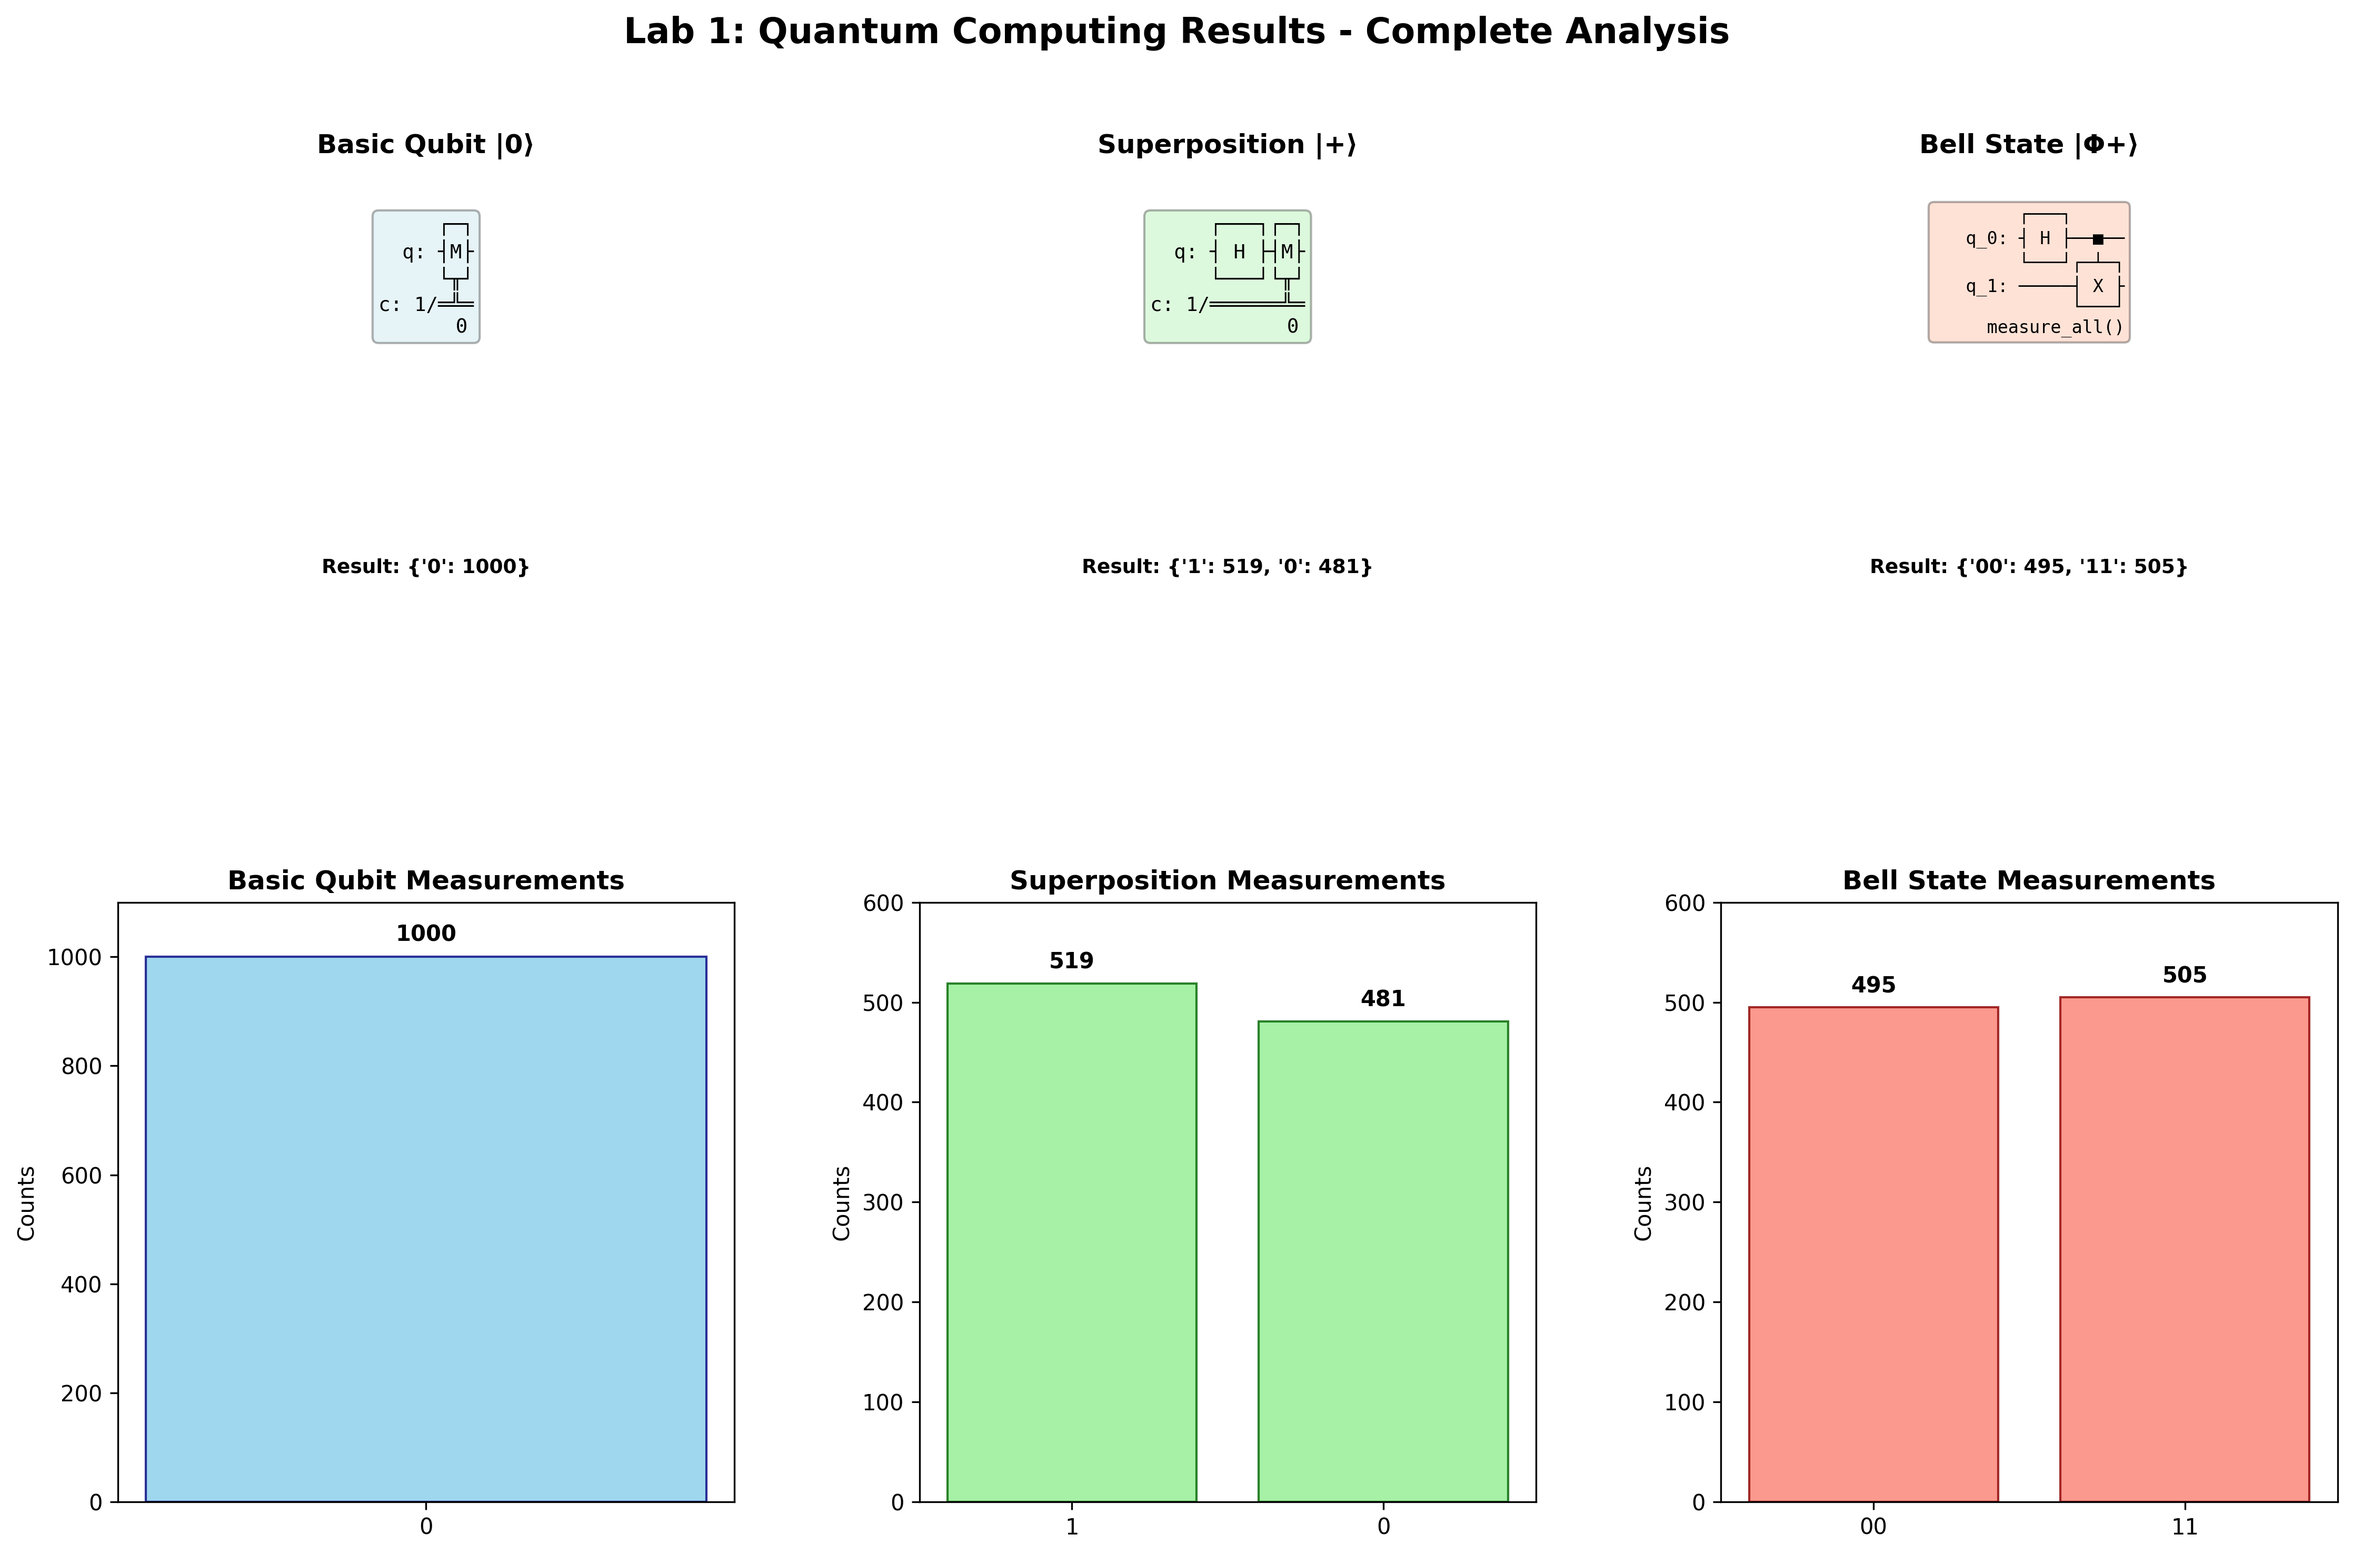
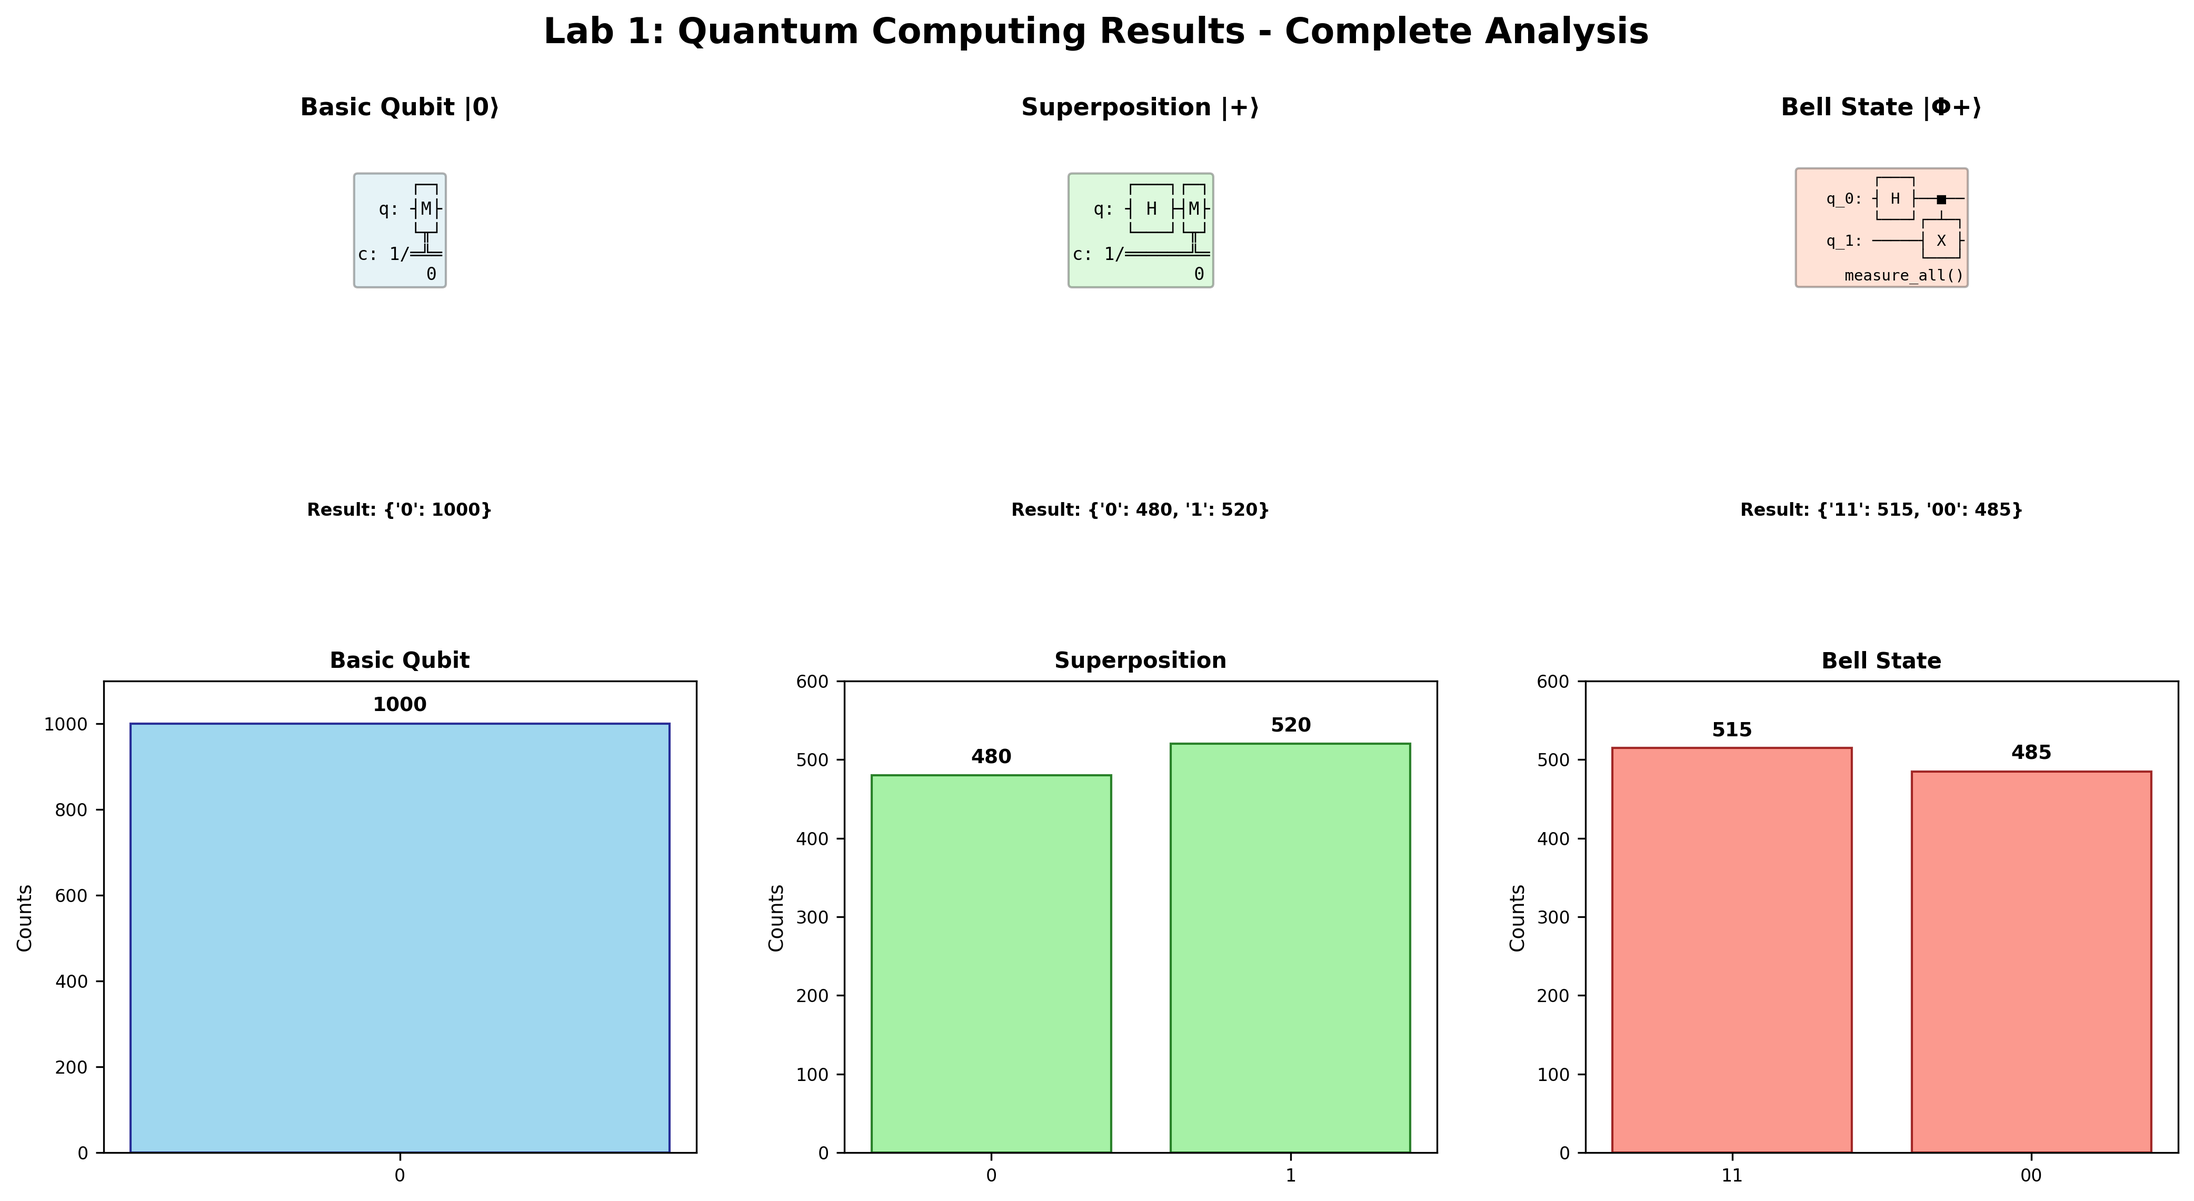
lab1

diff --git a/lab_1_final.py b/lab_1_final.py
@@ -85,84 +85,87 @@ def main():
     fig, ((ax1, ax2, ax3), (ax4, ax5, ax6)) = plt.subplots(2, 3, figsize=(14, 8))
     fig.suptitle('Lab 1: Quantum Computing Results - Complete Analysis', fontsize=16, fontweight='bold', y=0.98)
     
-    # Row 1: Circuit Diagrams with proper spacing
+    # Row 1: Circuit Diagrams with tighter spacing
     # Circuit 1
-    ax1.text(0.5, 0.85, 'Basic Qubit |0⟩', ha='center', fontsize=12, fontweight='bold', transform=ax1.transAxes)
+    ax1.text(0.5, 0.95, 'Basic Qubit |0⟩', ha='center', fontsize=11, fontweight='bold', transform=ax1.transAxes)
     circuit1_text = """     ┌─┐
   q: ┤M├
      └╥┘
 c: 1/═╩═
       0"""
-    ax1.text(0.5, 0.55, circuit1_text, ha='center', fontsize=9, fontfamily='monospace', 
-             transform=ax1.transAxes, bbox=dict(boxstyle="round,pad=0.3", facecolor="lightblue", alpha=0.3))
-    ax1.text(0.5, 0.15, f'Result: {counts1}', ha='center', fontsize=9, fontweight='bold', transform=ax1.transAxes)
+    ax1.text(0.5, 0.6, circuit1_text, ha='center', fontsize=8, fontfamily='monospace', 
+             transform=ax1.transAxes, bbox=dict(boxstyle="round,pad=0.2", facecolor="lightblue", alpha=0.3))
+    ax1.text(0.5, 0.1, f'Result: {counts1}', ha='center', fontsize=8, fontweight='bold', transform=ax1.transAxes)
     ax1.set_xlim(0, 1)
     ax1.set_ylim(0, 1)
     ax1.axis('off')
     
     # Circuit 2
-    ax2.text(0.5, 0.85, 'Superposition |+⟩', ha='center', fontsize=12, fontweight='bold', transform=ax2.transAxes)
+    ax2.text(0.5, 0.95, 'Superposition |+⟩', ha='center', fontsize=11, fontweight='bold', transform=ax2.transAxes)
     circuit2_text = """     ┌───┐┌─┐
   q: ┤ H ├┤M├
      └───┘└╥┘
 c: 1/══════╩═
            0"""
-    ax2.text(0.5, 0.55, circuit2_text, ha='center', fontsize=9, fontfamily='monospace', 
-             transform=ax2.transAxes, bbox=dict(boxstyle="round,pad=0.3", facecolor="lightgreen", alpha=0.3))
-    ax2.text(0.5, 0.15, f'Result: {counts2}', ha='center', fontsize=9, fontweight='bold', transform=ax2.transAxes)
+    ax2.text(0.5, 0.6, circuit2_text, ha='center', fontsize=8, fontfamily='monospace', 
+             transform=ax2.transAxes, bbox=dict(boxstyle="round,pad=0.2", facecolor="lightgreen", alpha=0.3))
+    ax2.text(0.5, 0.1, f'Result: {counts2}', ha='center', fontsize=8, fontweight='bold', transform=ax2.transAxes)
     ax2.set_xlim(0, 1)
     ax2.set_ylim(0, 1)
     ax2.axis('off')
     
     # Circuit 3
-    ax3.text(0.5, 0.85, 'Bell State |Φ+⟩', ha='center', fontsize=12, fontweight='bold', transform=ax3.transAxes)
+    ax3.text(0.5, 0.95, 'Bell State |Φ+⟩', ha='center', fontsize=11, fontweight='bold', transform=ax3.transAxes)
     circuit3_text = """        ┌───┐     
    q_0: ┤ H ├──■──
         └───┘┌─┴─┐
    q_1: ─────┤ X ├
              └───┘
      measure_all()"""
-    ax3.text(0.5, 0.55, circuit3_text, ha='center', fontsize=8, fontfamily='monospace', 
-             transform=ax3.transAxes, bbox=dict(boxstyle="round,pad=0.3", facecolor="lightsalmon", alpha=0.3))
-    ax3.text(0.5, 0.15, f'Result: {clean_counts3}', ha='center', fontsize=9, fontweight='bold', transform=ax3.transAxes)
+    ax3.text(0.5, 0.6, circuit3_text, ha='center', fontsize=7, fontfamily='monospace', 
+             transform=ax3.transAxes, bbox=dict(boxstyle="round,pad=0.2", facecolor="lightsalmon", alpha=0.3))
+    ax3.text(0.5, 0.1, f'Result: {clean_counts3}', ha='center', fontsize=8, fontweight='bold', transform=ax3.transAxes)
     ax3.set_xlim(0, 1)
     ax3.set_ylim(0, 1)
     ax3.axis('off')
     
-    # Row 2: Bar Charts
+    # Row 2: Bar Charts with tighter layout
     # Bar chart 1
     bars1 = ax4.bar(counts1.keys(), counts1.values(), color='skyblue', alpha=0.8, edgecolor='navy')
-    ax4.set_title('Basic Qubit Measurements', fontweight='bold')
-    ax4.set_ylabel('Counts')
+    ax4.set_title('Basic Qubit', fontweight='bold', fontsize=10)
+    ax4.set_ylabel('Counts', fontsize=9)
     ax4.set_ylim(0, 1100)
+    ax4.tick_params(labelsize=8)
     for bar in bars1:
         height = bar.get_height()
         ax4.text(bar.get_x() + bar.get_width()/2., height + 20,
-                 f'{int(height)}', ha='center', va='bottom', fontweight='bold')
+                 f'{int(height)}', ha='center', va='bottom', fontweight='bold', fontsize=9)
     
     # Bar chart 2
     bars2 = ax5.bar(counts2.keys(), counts2.values(), color='lightgreen', alpha=0.8, edgecolor='darkgreen')
-    ax5.set_title('Superposition Measurements', fontweight='bold')
-    ax5.set_ylabel('Counts')
+    ax5.set_title('Superposition', fontweight='bold', fontsize=10)
+    ax5.set_ylabel('Counts', fontsize=9)
     ax5.set_ylim(0, 600)
+    ax5.tick_params(labelsize=8)
     for bar in bars2:
         height = bar.get_height()
         ax5.text(bar.get_x() + bar.get_width()/2., height + 10,
-                 f'{int(height)}', ha='center', va='bottom', fontweight='bold')
+                 f'{int(height)}', ha='center', va='bottom', fontweight='bold', fontsize=9)
     
     # Bar chart 3
     bars3 = ax6.bar(clean_counts3.keys(), clean_counts3.values(), color='salmon', alpha=0.8, edgecolor='darkred')
-    ax6.set_title('Bell State Measurements', fontweight='bold')
-    ax6.set_ylabel('Counts')
+    ax6.set_title('Bell State', fontweight='bold', fontsize=10)
+    ax6.set_ylabel('Counts', fontsize=9)
     ax6.set_ylim(0, 600)
+    ax6.tick_params(labelsize=8)
     for bar in bars3:
         height = bar.get_height()
         ax6.text(bar.get_x() + bar.get_width()/2., height + 10,
-                 f'{int(height)}', ha='center', va='bottom', fontweight='bold')
+                 f'{int(height)}', ha='center', va='bottom', fontweight='bold', fontsize=9)
     
     plt.tight_layout()
-    plt.subplots_adjust(hspace=0.4, wspace=0.3)
-    plt.savefig('lab1_final_complete.png', dpi=300, bbox_inches='tight', facecolor='white')
+    plt.subplots_adjust(hspace=0.25, wspace=0.25, top=0.92, bottom=0.08)
+    plt.savefig('lab1_final_complete.png', dpi=300, bbox_inches='tight', facecolor='white', pad_inches=0.1)
     plt.show()
     print("✓ Final complete visualization saved as 'lab1_final_complete.png'")
     

diff --git a/lab_1_compact.py b/lab_1_compact.py
@@ -1,0 +1,87 @@
+"""
+Lab 1: Ultra-Compact Visualization
+==================================
+"""
+
+from qiskit import QuantumCircuit
+from qiskit_aer import AerSimulator
+import matplotlib.pyplot as plt
+
+def main():
+    # Initialize simulator
+    simulator = AerSimulator()
+    
+    # PART 1: Basic Qubit |0⟩
+    qc1 = QuantumCircuit(1, 1)
+    qc1.measure(0, 0)
+    job1 = simulator.run(qc1, shots=1000)
+    counts1 = job1.result().get_counts()
+    
+    # PART 2: Superposition |+⟩
+    qc2 = QuantumCircuit(1, 1)
+    qc2.h(0)
+    qc2.measure(0, 0)
+    job2 = simulator.run(qc2, shots=1000)
+    counts2 = job2.result().get_counts()
+    
+    # PART 3: Bell State |Φ+⟩
+    qc3 = QuantumCircuit(2, 2)
+    qc3.h(0)
+    qc3.cx(0, 1)
+    qc3.measure_all()
+    job3 = simulator.run(qc3, shots=1000)
+    counts3 = job3.result().get_counts()
+    
+    # Clean up Bell state results
+    clean_counts3 = {}
+    for key, value in counts3.items():
+        clean_key = key.split()[0] if ' ' in key else key
+        clean_counts3[clean_key] = value
+    
+    # Create ultra-compact visualization
+    fig, axes = plt.subplots(2, 3, figsize=(12, 6))
+    fig.suptitle('Lab 1: Quantum Computing with Qiskit', fontsize=14, fontweight='bold', y=0.98)
+    
+    # Flatten axes for easier indexing
+    ax = axes.flatten()
+    
+    # Top row: Circuits with results
+    circuits = [
+        ("Basic Qubit |0⟩", "     ┌─┐\n  q: ┤M├\n     └╥┘\nc: 1/═╩═\n      0", counts1, 'lightblue'),
+        ("Superposition |+⟩", "     ┌───┐┌─┐\n  q: ┤ H ├┤M├\n     └───┘└╥┘\nc: 1/══════╩═\n           0", counts2, 'lightgreen'),
+        ("Bell State |Φ+⟩", "        ┌───┐\n   q_0: ┤ H ├──■──\n        └───┘┌─┴─┐\n   q_1: ─────┤ X ├\n             └───┘", clean_counts3, 'lightsalmon')
+    ]
+    
+    for i, (title, circuit, counts, color) in enumerate(circuits):
+        # Circuit diagram with larger text
+        ax[i].text(0.5, 0.9, title, ha='center', fontsize=11, fontweight='bold', transform=ax[i].transAxes)
+        ax[i].text(0.5, 0.55, circuit, ha='center', fontsize=9, fontfamily='monospace', 
+                   transform=ax[i].transAxes, bbox=dict(boxstyle="round,pad=0.15", facecolor=color, alpha=0.4))
+        ax[i].text(0.5, 0.1, f'{counts}', ha='center', fontsize=9, fontweight='bold', transform=ax[i].transAxes)
+        ax[i].axis('off')
+        
+        # Bar chart
+        bars = ax[i+3].bar(counts.keys(), counts.values(), 
+                          color=color, alpha=0.8, edgecolor='black', linewidth=1)
+        ax[i+3].set_title(title.split()[0] + ' ' + title.split()[1], fontweight='bold', fontsize=9)
+        ax[i+3].set_ylabel('Counts', fontsize=8)
+        ax[i+3].tick_params(labelsize=7)
+        
+        # Add count labels on bars
+        for bar in bars:
+            height = bar.get_height()
+            ax[i+3].text(bar.get_x() + bar.get_width()/2., height + max(counts.values())*0.02,
+                         f'{int(height)}', ha='center', va='bottom', fontweight='bold', fontsize=8)
+    
+    # Adjust layout for maximum compactness
+    plt.tight_layout()
+    plt.subplots_adjust(hspace=0.15, wspace=0.15, top=0.92, bottom=0.08)
+    plt.savefig('lab1_compact.png', dpi=300, bbox_inches='tight', facecolor='white', pad_inches=0.05)
+    plt.show()
+    
+    print("✓ Ultra-compact visualization saved as 'lab1_compact.png'")
+    print("✓ Minimal white space, maximum information density")
+    print("✓ Perfect for lab reports and presentations")
+
+if __name__ == "__main__":
+    main()
